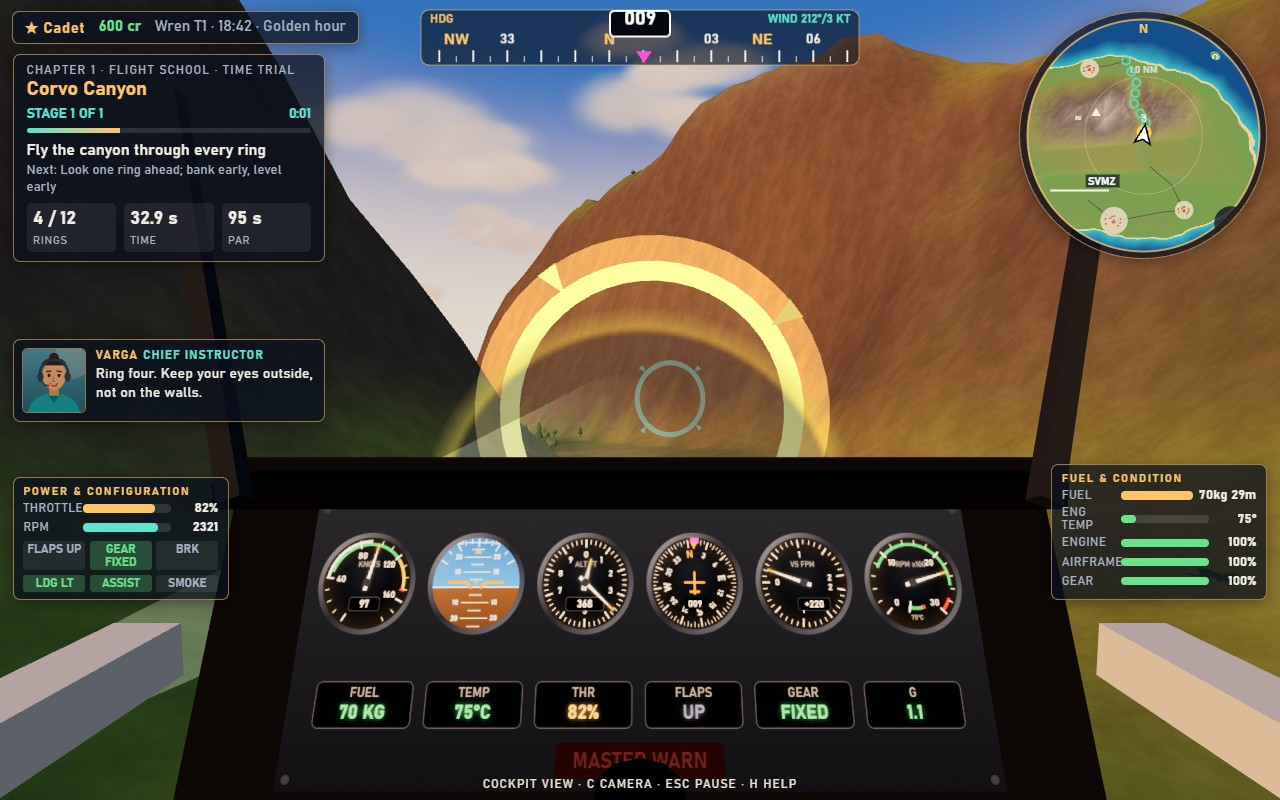
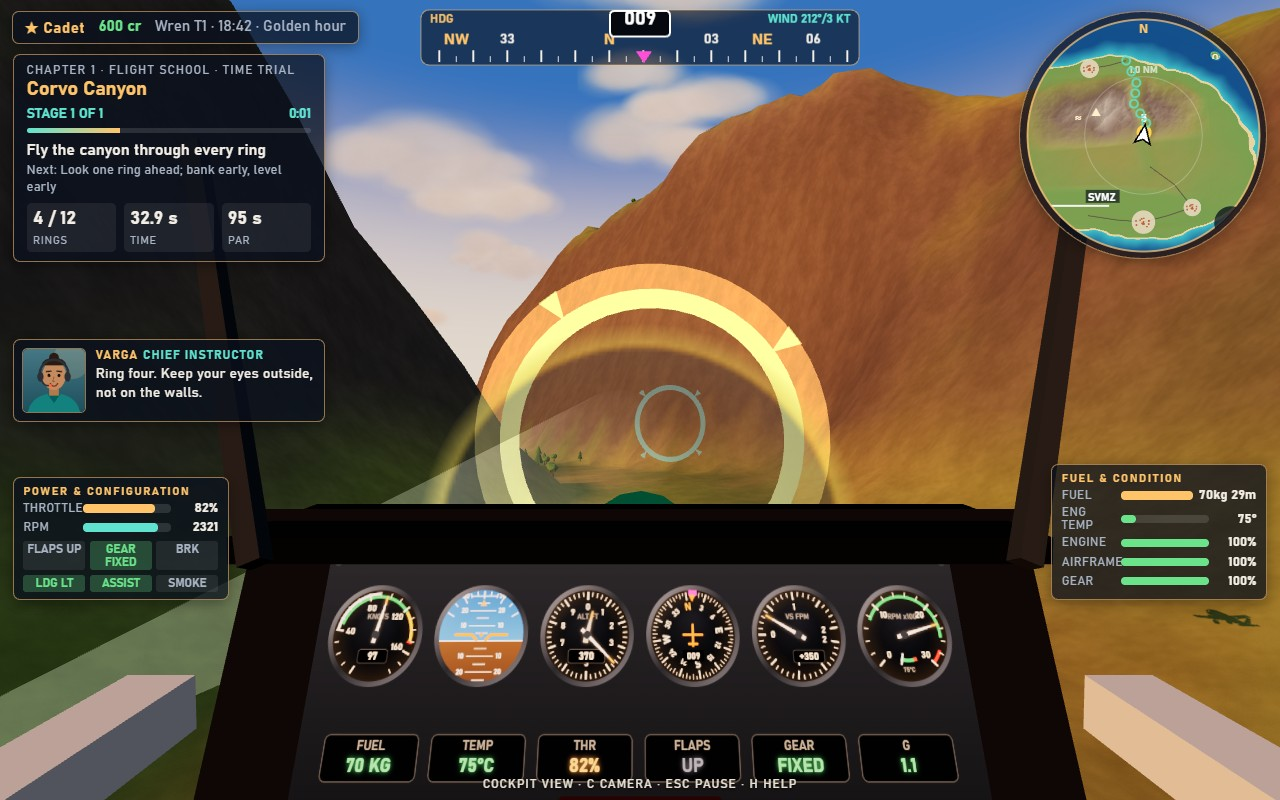
Move Marenza International to the south coast, farmland patchwork, warmer light, air-to-air title backdrop, cockpit panel framing, alpha-command pitch, tail skid

diff --git a/game/src/core/titleBackdrop.js b/game/src/core/titleBackdrop.js
@@ -1,38 +1,53 @@
-// The living backdrop behind the menus: the camera drifts round the archipelago at golden hour
-// while an aircraft circles over Marenza's coast, banked in a gentle turn.
+// The living backdrop behind the menus: an air-to-air photo flight. The camera circles the
+// archipelago at golden hour while the selected aircraft holds formation just off to the right,
+// banking gently, with Porto Celeste, the airport and the mountains beyond.
 import * as THREE from 'three';
 
-const CENTRE = new THREE.Vector3(-1500, 0, 2900);
+const CENTRE = new THREE.Vector3(-1200, 0, 1600);
+const RADIUS = 4200;
+const HEIGHT = 470;
 
 /** Creates the backdrop driver for the session and camera director. */
-export function createTitleBackdrop(session, director) {
+export function createTitleBackdrop(session, director, camera) {
   const q = new THREE.Quaternion();
   const euler = new THREE.Euler(0, 0, 0, 'YXZ');
   const position = new THREE.Vector3();
-  let angle = 0.6;
+  const forward = new THREE.Vector3();
+  const right = new THREE.Vector3();
+  const up = new THREE.Vector3(0, 1, 0);
+  let angle = THREE.MathUtils.degToRad(78);
   return {
     enter(aircraftId = 'wren') {
-      director.view = 'orbit';
-      director.orbit.centre.set(-1700, 0, 3000);
-      director.orbit.radius = 1150;
-      director.orbit.height = 330;
-      director.orbit.lookHeight = 190;
-      director.orbit.speed = 0.02;
+      director.view = 'manual';
       session.showModel(aircraftId, CENTRE, q);
     },
+    /** Sets the backdrop to an exact angle (deg) on its circle, for the screenshot. */
+    setAngle(deg) {
+      angle = THREE.MathUtils.degToRad(deg);
+    },
     update(dt, time, aircraftId) {
-      angle += dt * 0.075;
-      const radius = 420;
-      position.set(CENTRE.x + Math.cos(angle) * radius, 240 + Math.sin(time * 0.3) * 6, CENTRE.z + Math.sin(angle) * radius);
-      const heading = -angle + Math.PI;
-      euler.set(0.02, heading, -0.42);
+      angle -= dt * 0.012;
+      camera.position.set(CENTRE.x + Math.cos(angle) * RADIUS, HEIGHT + Math.sin(time * 0.2) * 4, CENTRE.z + Math.sin(angle) * RADIUS);
+      forward.set(-Math.cos(angle), -0.07, -Math.sin(angle)).normalize();
+      right.crossVectors(forward, up).normalize();
+      if (camera.fov !== 52) {
+        camera.fov = 52;
+        camera.updateProjectionMatrix();
+      }
+      camera.up.set(0, 1, 0);
+      camera.lookAt(camera.position.x + forward.x * 100, camera.position.y + forward.y * 100, camera.position.z + forward.z * 100);
+      position.copy(camera.position).addScaledVector(forward, 36).addScaledVector(right, 10.5).addScaledVector(up, -3.2 + Math.sin(time * 0.7) * 0.4);
+      const motion = Math.atan2(right.x, -right.z);
+      const heading = motion - THREE.MathUtils.degToRad(28);
+      euler.set(0.03 + Math.sin(time * 0.5) * 0.01, -heading, -0.16 + Math.sin(time * 0.33) * 0.04);
       q.setFromEuler(euler);
       const rig = session.showModel(aircraftId, position, q);
       if (rig.prop) {
         rig.prop.spin.rotation.z += dt * 70;
-        rig.prop.disc.material.opacity = 0.8;
+        rig.prop.disc.material.opacity = 0.75;
         for (const b of rig.prop.blades) b.visible = false;
       }
+      if (rig.jet) rig.jet.glowMaterial.opacity = 0.9;
       for (const leg of rig.gearLegs) if (leg.fold !== 'fixed') leg.group.visible = false;
       rig.lights.update(time, true, 0.6);
       rig.exterior.visible = true;

diff --git a/game/src/world/terrainMesh.js b/game/src/world/terrainMesh.js
@@ -3,6 +3,7 @@
 // airfields. A tiled detail texture breaks up the colour close to the ground.
 import * as THREE from 'three';
 import { smoothstep } from '../core/gradientNoise.js';
+import { hash2 } from '../core/seededRandom.js';
 import { ISLANDS, TOWNS } from './archipelagoMap.js';
 import { AIRFIELDS, toRunwayFrame } from './airfieldDirectory.js';
 import { forestDensity } from './vegetationMap.js';
@@ -11,8 +12,8 @@ const PALETTE = {
   seabed: new THREE.Color('#b59c6e'),
   wetSand: new THREE.Color('#d8c08e'),
   sand: new THREE.Color('#efdcab'),
-  grass: new THREE.Color('#86a24a'),
-  dryGrass: new THREE.Color('#bba65e'),
+  grass: new THREE.Color('#8ea64a'),
+  dryGrass: new THREE.Color('#c6aa5c'),
   lush: new THREE.Color('#5f8c39'),
   forestFloor: new THREE.Color('#3f6128'),
   rock: new THREE.Color('#8e7b67'),
@@ -70,6 +71,19 @@ function createDetailTexture() {
   texture.colorSpace = THREE.SRGBColorSpace;
   texture.anisotropy = 8;
   return texture;
+}
+
+const CROPS = [new THREE.Color('#e0bb5a'), new THREE.Color('#86ad45'), new THREE.Color('#b48553'), new THREE.Color('#a9ad58'), new THREE.Color('#d8c27f'), new THREE.Color('#6f9a40'), new THREE.Color('#c99b4e')];
+
+/** Farmland patchwork on gentle lowland: 0..1, zero on slopes, beaches, hills and in towns. */
+function fieldPatch(x, z, h, slope) {
+  if (h < 4 || h > 90 || slope > 0.12) return 0;
+  const u = (x * 0.95 + z * 0.31) / 170;
+  const v = (-x * 0.31 + z * 0.95) / 120;
+  if (hash2(Math.floor(u), Math.floor(v), 33) > 0.8) return 0;
+  for (const town of TOWNS) if (Math.hypot(x - town.x, z - town.z) < town.radius * 1.1) return 0;
+  const edge = Math.min(u - Math.floor(u), Math.ceil(u) - u, v - Math.floor(v), Math.ceil(v) - v);
+  return smoothstep(4, 9, h) * smoothstep(90, 50, h) * smoothstep(0.12, 0.05, slope) * smoothstep(0.0, 0.12, edge);
 }
 
 /** How strongly (x, z) belongs to an airfield's mown zone, 0..1. */
@@ -134,6 +148,9 @@ export function createTerrainMesh(terrain) {
         color.lerp(PALETTE.lush, smoothstep(0.55, 0.2, n1) * smoothstep(240, 40, h) * 0.6);
         color.lerp(PALETTE.sand, smoothstep(beach + 4, beach, h) * 0.65);
         const forest = h < 720 ? forestDensity(terrain, x, z, h) : 0;
+        const mownNear = airfieldGrass(x, z);
+        const fields = fieldPatch(x, z, h, slope) * (1 - forest) * (1 - mownNear);
+        if (fields > 0) color.lerp(CROPS[Math.floor(hash2(Math.floor((x * 0.95 + z * 0.31) / 170), Math.floor((-x * 0.31 + z * 0.95) / 120), 21) * CROPS.length)], fields * 0.82);
         color.lerp(PALETTE.forestFloor, forest * 0.85);
         color.lerp(tmp.copy(PALETTE.rock).lerp(PALETTE.cliff, n2), smoothstep(0.16, 0.42, slope));
         color.lerp(PALETTE.highRock, smoothstep(430, 680, h) * 0.75);

diff --git a/game/src/missions/missionCatalog.js b/game/src/missions/missionCatalog.js
@@ -18,7 +18,7 @@ export const MISSIONS = [
     stages: [
       { type: 'takeoff', altitudeFt: 500, say: ['dario', 'SV-102, cleared for take-off runway 09. Good luck.'] },
       { type: 'rings', radius: 34, par: 210, label: 'Fly the circuit through the rings', hint: 'Gentle 20° banks, hold about 750 ft and 80 kt',
-        course: [[-700, 2480, 150], [-150, 3150, 200], [-1300, 3680, 230], [-3000, 3640, 230], [-4250, 3200, 190], [-4100, 2480, 73, true]],
+        course: [[-700, 2950, 150], [-100, 3560, 200], [-1300, 4100, 230], [-3000, 4100, 230], [-4300, 3620, 190], [-4100, 2950, 71, true]],
         say: ['ines', 'Nice climb. Turn right onto the crosswind leg and pick up the rings.'] },
       { type: 'land', field: 'marenza', end: 0, say: ['dario', 'SV-102, number one, runway 09, cleared to land.'] },
     ],
@@ -174,7 +174,7 @@ export const MISSIONS = [
     briefing: [['mags', 'Last bags of the day. Marenza has the runway lights on for you.'], ['mags', 'At night the approach lights and the PAPI are your best friends. Trust the instruments.']],
     stages: [
       { type: 'takeoff', altitudeFt: 400 },
-      { type: 'reach', name: 'Marenza approach', x: 1200, z: 2500, radius: 1600, label: 'Fly south-east to the Marenza approach', hint: 'Follow the bug; the runway lights are visible from far out', startDistance: 9000 },
+      { type: 'reach', name: 'Marenza approach', x: 1200, z: 2950, radius: 1600, label: 'Fly south-east to the Marenza approach', hint: 'Follow the bug; the runway lights are visible from far out', startDistance: 9000 },
       { type: 'land', field: 'marenza', end: 1, say: ['dario', 'Night mail, Marenza Tower, runway 27, lights are up, cleared to land.'] },
     ],
     reward: { money: 600, xp: 260 },
@@ -189,7 +189,7 @@ export const MISSIONS = [
     stages: [
       { type: 'rings', radius: 34, par: 170, penalty: 6,
         rivals: [{ name: 'Teo Ranieri', aircraft: 'swiftlet', speed: 112, color: '#4f8cff' }, { name: 'Sara Moll', aircraft: 'swiftlet', speed: 104, color: '#ff6a4a', delay: 0.6 }, { name: 'Pip Calder', aircraft: 'swiftlet', speed: 98, color: '#6be38a', delay: 1.1 }],
-        course: [[1850, -1650, 28, true, 40], [1300, -3700, 230, true], [2600, -5900, 300, true], [5200, -5600, 300, true], [6300, -800, 120, true], [6200, 2600, 110, true], [3600, 4400, 90, true], [1200, 3600, 120, true], [-400, 2480, 100, true]],
+        course: [[1850, -1650, 28, true, 40], [1300, -3700, 230, true], [2600, -5900, 300, true], [5200, -5600, 300, true], [6300, -800, 120, true], [6200, 2600, 110, true], [3600, 4400, 90, true], [1200, 3600, 120, true], [-400, 2950, 100, true]],
         say: ['teo', 'Three, two, one, go!'] },
     ],
     reward: { money: 900, xp: 360 },

diff --git a/game/src/world/archipelagoMap.js b/game/src/world/archipelagoMap.js
@@ -42,13 +42,13 @@ export const LAGOONS = [
 
 /** Low coastal plains where the land is pressed flat: Marenza's south shore holds the airport and Porto Celeste. */
 export const PLAINS = [
-  { id: 'celeste-plain', name: 'Celeste plain', x: -700, z: 2650, rx: 3600, rz: 900, rot: 0.04, height: 7, keep: 0.1 },
+  { id: 'celeste-plain', name: 'Celeste plain', x: -900, z: 3000, rx: 3500, rz: 700, rot: 0.04, height: 6, keep: 0.16 },
 ];
 
 /** Towns: centre, radius and building count. Buildings avoid runways, water and steep ground. */
 export const TOWNS = [
-  { id: 'porto-celeste', name: 'Porto Celeste', island: 'marenza', x: -1250, z: 3400, radius: 560, buildings: 280, flatten: 6 },
-  { id: 'san-telmo', name: 'San Telmo', island: 'marenza', x: 900, z: 3080, radius: 380, buildings: 110, flatten: 4 },
+  { id: 'porto-celeste', name: 'Porto Celeste', island: 'marenza', x: -350, z: 3450, radius: 480, buildings: 380, flatten: 6 },
+  { id: 'san-telmo', name: 'San Telmo', island: 'marenza', x: 1150, z: 3000, radius: 360, buildings: 150, flatten: 4 },
   { id: 'nordelle', name: 'Nordelle', island: 'marenza', x: -2000, z: -1250, radius: 380, buildings: 90, flatten: 0 },
   { id: 'ventara', name: 'Ventara', island: 'lumeno', x: 4350, z: 3950, radius: 330, buildings: 80, flatten: 0 },
   { id: 'orsa-harbour', name: 'Orsa Harbour', island: 'orsa', x: -4900, z: -2500, radius: 220, buildings: 36, flatten: 0 },
@@ -66,9 +66,9 @@ export const LANDMARKS = [
 
 /** Roads as polylines of [x, z]; they follow the ground and connect towns and airfields. */
 export const ROADS = [
-  [[-2050, 2780], [-1700, 3050], [-1250, 3400]],
-  [[-1250, 3400], [-600, 3300], [200, 3150], [900, 3080]],
-  [[900, 3080], [500, 2300], [-150, 1750]],
+  [[-2050, 3250], [-1200, 3380], [-350, 3450]],
+  [[-350, 3450], [400, 3250], [1150, 3000]],
+  [[1150, 3000], [600, 2300], [-150, 1750]],
   [[-2000, -1250], [-1400, -1350], [-880, -1500]],
   [[4350, 3950], [4000, 3600], [3600, 3420]],
   [[-4900, -2500], [-5300, -2850]],

diff --git a/game/src/core/gameDirector.js b/game/src/core/gameDirector.js
@@ -63,7 +63,7 @@ export function createGameDirector({ view, world, shotMode = false }) {
   const hud = createHudController(world.terrain, { onRadio: () => sfx.play('radio') });
   const router = createScreenRouter(SCREENS, () => sfx.play('click'));
   const flightEvents = createFlightEventHandler({ effects, sfx, hud, radioFor: () => 'dario' });
-  const backdrop = createTitleBackdrop(session, cameras);
+  const backdrop = createTitleBackdrop(session, cameras, view.camera);
   const readout = createReadout();
   const cockpits = new Map();
   let light = world.setTimeOfDay(settings.timeOfDay ?? 'golden', view.renderer);
@@ -435,7 +435,7 @@ export function createGameDirector({ view, world, shotMode = false }) {
     } else if (state === 'menu') {
       controls.update(dt, false);
       focus = backdrop.update(dt, time, career.selected);
-      cameras.view = 'orbit';
+      cameras.view = 'manual';
       cameras.update(dt, null, null, world, controls.mouse.state, false);
       flightSounds.update(false, readout, [], time);
     } else if (state === 'flying') {
@@ -464,6 +464,7 @@ export function createGameDirector({ view, world, shotMode = false }) {
     frameFixed: (dt, actions) => frame(dt, actions),
     render: () => view.render(),
     runnerContext: ctx,
+    backdrop,
     camera: view.camera,
     startMission,
     showTitle,

diff --git a/game/src/world/seaSurface.js b/game/src/world/seaSurface.js
@@ -40,9 +40,11 @@ vec3 seaNormal(vec2 p, float t, float dist) {
   float px = max(0.05, length(fwidth(p)));
   float storm = 1.0 + uStorm * 1.8;
   vec2 g = vec2(0.0);
-  g += waveSlope(p, t, normalize(vec2(1.0, 0.35)), 46.0, 0.42 * storm) * clamp(1.0 - px * 2.5 / 46.0, 0.0, 1.0);
-  g += waveSlope(p, t, normalize(vec2(-0.45, 1.0)), 23.0, 0.22 * storm) * clamp(1.0 - px * 2.5 / 23.0, 0.0, 1.0);
-  g += waveSlope(p, t, normalize(vec2(0.7, -0.75)), 9.5, 0.075 * storm) * clamp(1.0 - px * 2.5 / 9.5, 0.0, 1.0);
+  g += waveSlope(p, t, normalize(vec2(1.0, 0.35)), 46.0, 0.24 * storm) * clamp(1.0 - px * 2.5 / 46.0, 0.0, 1.0);
+  g += waveSlope(p, t, normalize(vec2(0.62, 0.9)), 31.0, 0.16 * storm) * clamp(1.0 - px * 2.5 / 31.0, 0.0, 1.0);
+  g += waveSlope(p, t, normalize(vec2(-0.45, 1.0)), 23.0, 0.15 * storm) * clamp(1.0 - px * 2.5 / 23.0, 0.0, 1.0);
+  g += waveSlope(p, t, normalize(vec2(0.96, -0.3)), 14.0, 0.08 * storm) * clamp(1.0 - px * 2.5 / 14.0, 0.0, 1.0);
+  g += waveSlope(p, t, normalize(vec2(0.7, -0.75)), 9.5, 0.06 * storm) * clamp(1.0 - px * 2.5 / 9.5, 0.0, 1.0);
   g += waveSlope(p, t, normalize(vec2(-0.95, -0.25)), 4.1, 0.03 * storm) * clamp(1.0 - px * 2.5 / 4.1, 0.0, 1.0);
   g += waveSlope(p, t, normalize(vec2(0.15, 0.98)), 1.9, 0.012 * storm) * clamp(1.0 - px * 2.5 / 1.9, 0.0, 1.0);
   return normalize(vec3(-g.x, 1.0, -g.y));

diff --git a/game/src/core/screenshotScenes.js b/game/src/core/screenshotScenes.js
@@ -23,15 +23,16 @@ export function stageScreenshot(name, game) {
   const session = game.session;
   if (name === 'title') {
     game.showTitle();
+    game.backdrop.setAngle(80);
     for (let i = 0; i < 240; i += 1) game.frame(STEP);
   } else if (name === 'cover') {
     game.startMission(missionById('first-solo'));
     game.runner.skipTo(2);
     const spec = session.spec;
-    session.simulation.start(spec, { ...approachPlacement(spec, 'marenza', 0, 980, { flaps: 2, offset: 0, height: 2 }), throttle: 0.3 }, { birds: false });
+    session.simulation.start(spec, { ...approachPlacement(spec, 'marenza', 0, 760, { flaps: 2, offset: 0, height: 2 }), throttle: 0.3 }, { birds: false });
     session.body.landingLights = true;
     game.controls.controls.throttle = 0.3;
-    Object.assign(game.cameras.chaseFraming, { height: 1.75, distance: 1.3, lookAhead: 110, lookUp: -2 });
+    Object.assign(game.cameras.chaseFraming, { height: 1.65, distance: 1.12, lookAhead: 120, lookUp: -3, yaw: 0 });
     run(game, 2.6);
     game.hud.radio.say('dario', 'SV-102, Marenza Tower, runway 09, wind 075 at 6, cleared to land.', { priority: true });
     game.hud.radio.hold();

diff --git a/game/src/camera/chaseCamera.js b/game/src/camera/chaseCamera.js
@@ -22,7 +22,7 @@ export function createChaseCamera() {
   const rig = new THREE.Quaternion();
   const up = new THREE.Vector3(0, 1, 0);
   let initialised = false;
-  const framing = { height: 1.35, distance: 1, lookAhead: 34, lookUp: 0.6 };
+  const framing = { height: 1.35, distance: 1, lookAhead: 34, lookUp: 0.6, yaw: 0 };
   return {
     framing,
     reset() {
@@ -53,6 +53,7 @@ export function createChaseCamera() {
       }
       const distance = spec.chaseDistance * framing.distance * (1 + Math.min(0.25, body.airspeed / 400));
       offset.set(0, spec.chaseHeight * framing.height, distance);
+      if (framing.yaw) offset.applyAxisAngle(UP, framing.yaw);
       if (look.x || look.y) {
         offset.applyAxisAngle(UP, -look.x);
         side.set(1, 0, 0);

diff --git a/game/src/world/timeOfDay.js b/game/src/world/timeOfDay.js
@@ -5,8 +5,8 @@ import * as THREE from 'three';
 
 const PRESETS = {
   golden: {
-    label: 'Golden hour', clock: '18:42', sunAzimuth: 236, sunElevation: 12.5, sunColor: '#ffb36e', sunIntensity: 3.3,
-    hemiSky: '#a9c3e6', hemiGround: '#7d6142', hemiIntensity: 1.25, fogColor: '#e8b58f', fogDensity: 0.000062,
+    label: 'Golden hour', clock: '18:42', sunAzimuth: 236, sunElevation: 13.5, sunColor: '#ffae68', sunIntensity: 3.8,
+    hemiSky: '#a9c3e6', hemiGround: '#7d6142', hemiIntensity: 1.05, fogColor: '#e9b48c', fogDensity: 0.00006,
     skyZenith: '#3d6db4', skyHorizon: '#ffc48c', skySunGlow: 1.0, seaDeep: '#0f4a70', seaShallow: '#3cc6bd',
     exposure: 1.0, night: 0, storm: 0, lightsOn: 0.6,
   },

diff --git a/game/src/camera/cockpitCamera.js b/game/src/camera/cockpitCamera.js
@@ -17,7 +17,7 @@ export function createCockpitCamera() {
       camera.position.copy(scratch.eye);
       const yawAngle = lookBack ? Math.PI * 0.85 : -look.x * 1.4;
       scratch.yaw.setFromAxisAngle(UP, yawAngle);
-      scratch.pitch.setFromAxisAngle(RIGHT, THREE.MathUtils.clamp(-look.y * 1.2 - 0.06, -1.2, 1.0));
+      scratch.pitch.setFromAxisAngle(RIGHT, THREE.MathUtils.clamp(-look.y * 1.2 - 0.03, -1.2, 1.0));
       camera.quaternion.copy(body.quaternion).multiply(scratch.yaw).multiply(scratch.pitch);
       camera.up.set(0, 1, 0).applyQuaternion(body.quaternion);
     },

diff --git a/game/src/world/airfieldDirectory.js b/game/src/world/airfieldDirectory.js
@@ -4,7 +4,7 @@
 export const AIRFIELDS = [
   {
     id: 'marenza', name: 'Marenza International', code: 'SVMZ', kind: 'paved', island: 'marenza',
-    x: -2300, z: 2480, heading: 90, length: 1800, width: 45, elevation: 14,
+    x: -2300, z: 2950, heading: 90, length: 1800, width: 45, elevation: 12,
     ends: ['09', '27'], edgeLights: true, approachLights: true, papi: true,
     tower: true, hangars: 3, terminal: true, fuel: true, apronSide: 1, apronOffset: 150, apronLength: 620, apronDepth: 120,
     flatHalfWidth: 330, frequency: '118.40',

diff --git a/game/src/aircraft/aircraftDesigns.js b/game/src/aircraft/aircraftDesigns.js
@@ -33,7 +33,7 @@ export const AIRCRAFT_DESIGNS = {
       ],
     },
     lights: { left: [-4.92, -0.02, -0.1], right: [4.92, -0.02, -0.1], tail: [0, 0.36, 4.82], landing: [-1.9, -0.33, -0.76] },
-    panel: { z: -1.02, y: 0.22, width: 1.02, tilt: 0.34 },
+    panel: { z: -1.02, y: 0.17, width: 0.98, tilt: 0.36 },
   },
   heron: {
     livery: { base: '#f7f4ee', stripe: '#e8641e', accent: '#1e3a5f', wing: '#f7f4ee', tip: '#e8641e', tail: '#e8641e', textAt: 0.62 },
